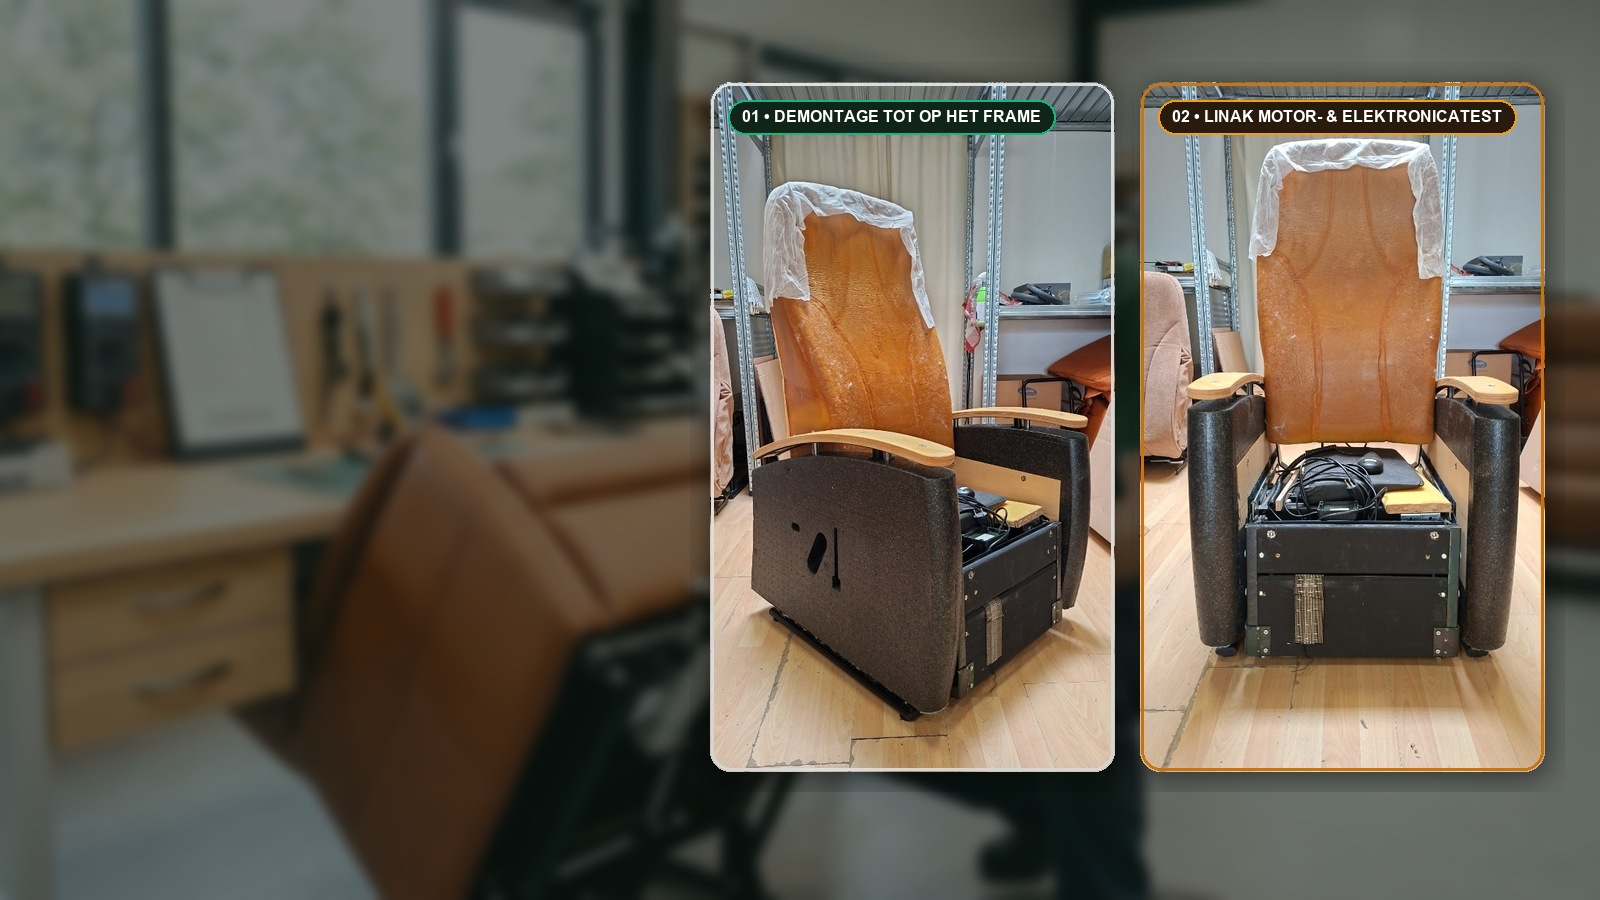
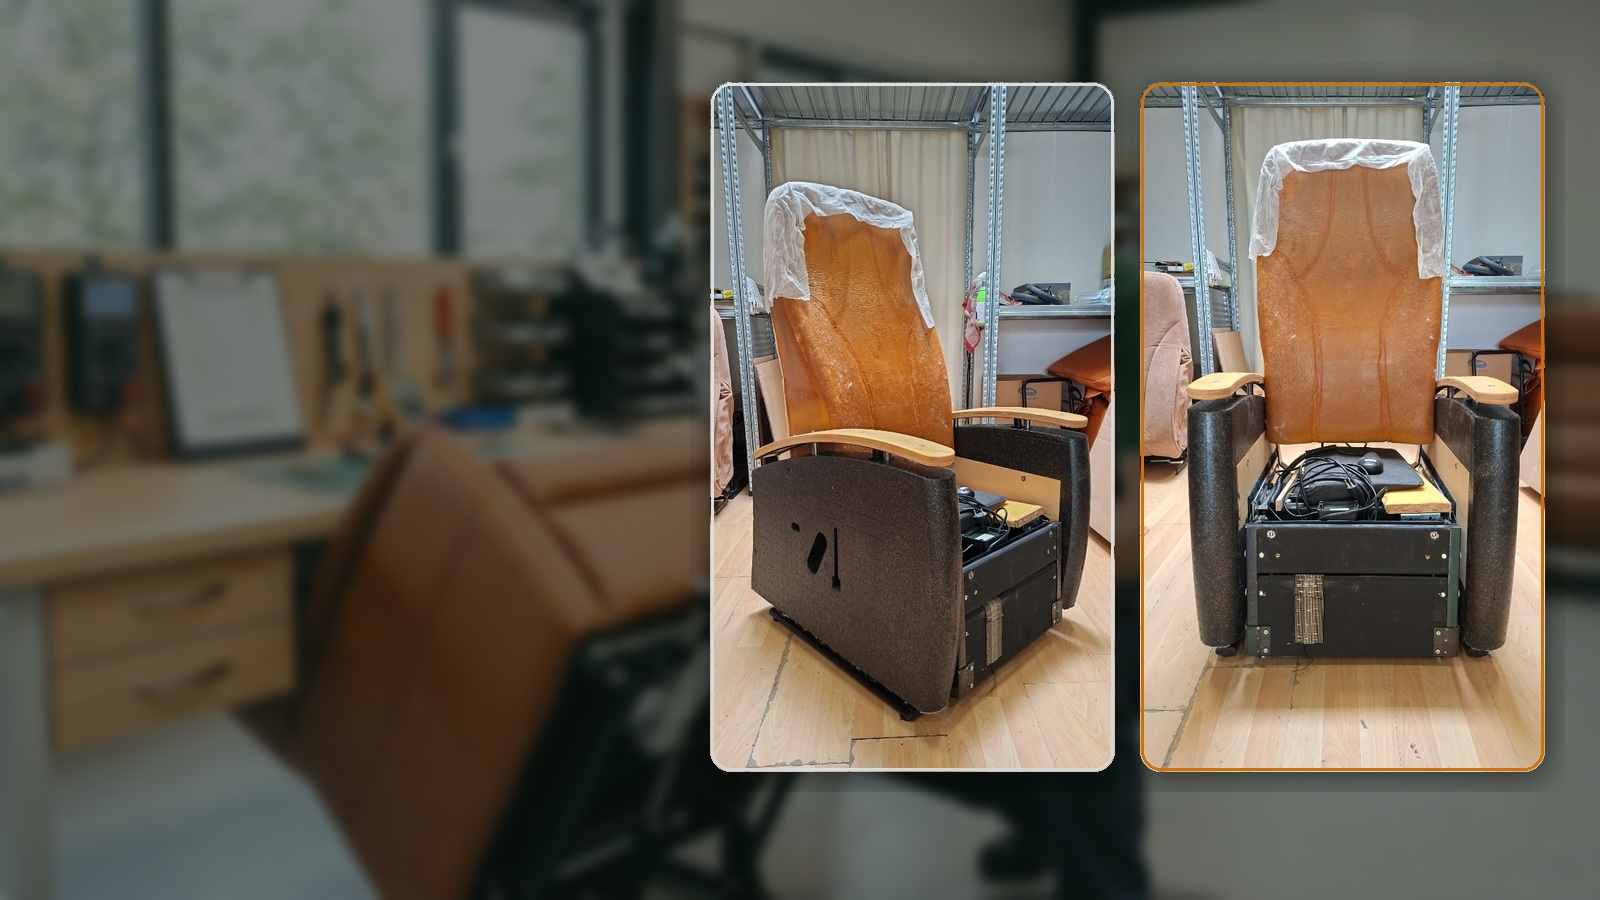
Remove text overlays from workshop photos and fix card text overflow

Changed region(s): [[0.7188, 0.0933, 0.9688, 0.1556], [0.4375, 0.0933, 0.6562, 0.1556]]

diff --git a/certified-fitform-video.html b/certified-fitform-video.html
@@ -2488,13 +2488,14 @@
     }
     .anatomy-stage-grid {
       display: grid;
-      grid-template-columns: 140px 1fr;
-      gap: 12px;
+      grid-template-columns: 125px 1fr;
+      gap: 10px;
       align-items: stretch;
       height: 215px;
       min-height: 215px;
       max-height: 215px;
       flex-shrink: 0;
+      min-width: 0;
     }
     .anatomy-chair-canvas {
       position: relative;
@@ -2601,31 +2602,38 @@
       background: #f4f9f1;
       border: 1px solid rgba(75, 143, 36, 0.22);
       border-radius: 8px;
-      padding: 6px 10px;
-      font-size: 0.72rem;
+      padding: 6px 8px;
+      font-size: 0.70rem;
       display: flex;
       flex-direction: column;
       gap: 3px;
       flex-shrink: 0;
+      box-sizing: border-box;
+      min-width: 0;
+      overflow: hidden;
     }
     .anatomy-meta-row {
       display: flex;
       justify-content: space-between;
-      align-items: center;
+      align-items: baseline;
       gap: 6px;
-      font-size: 0.71rem;
+      font-size: 0.70rem;
       line-height: 1.25;
+      min-width: 0;
     }
     .anatomy-meta-lbl {
       color: #64748b;
       font-weight: 600;
       flex-shrink: 0;
+      font-size: 0.69rem;
     }
     .anatomy-meta-val {
       font-weight: 800;
       color: var(--color-forest-dark);
       text-align: right;
-      white-space: nowrap;
+      white-space: normal;
+      word-break: normal;
+      min-width: 0;
     }
     .anatomy-pills-row {
       display: grid;
@@ -2959,12 +2967,13 @@
     }
     .revisie-stage-grid {
       display: grid;
-      grid-template-columns: 140px 1fr;
-      gap: 12px;
+      grid-template-columns: 125px 1fr;
+      gap: 10px;
       height: 215px;
       min-height: 215px;
       max-height: 215px;
       flex-shrink: 0;
+      min-width: 0;
     }
     .revisie-photo-frame {
       position: relative;
@@ -2986,22 +2995,7 @@
       transition: transform 0.35s ease;
     }
     .revisie-photo-badge {
-      position: absolute;
-      bottom: 6px;
-      left: 6px;
-      right: 6px;
-      background: rgba(15, 28, 22, 0.92);
-      color: #ffffff;
-      font-family: 'Montserrat', sans-serif;
-      font-size: 0.60rem;
-      font-weight: 800;
-      padding: 4px 6px;
-      border-radius: 6px;
-      text-align: center;
-      white-space: nowrap;
-      overflow: hidden;
-      text-overflow: ellipsis;
-      border: 1px solid rgba(243, 146, 35, 0.5);
+      display: none !important;
     }
     .revisie-detail-col {
       display: flex;
@@ -4949,13 +4943,13 @@
     {
       align: "left",
       shortTag: "1. Demontage & Framecheck",
-      kicker: "FASE 1 • DEMONTAGE TOT OP HET FRAME",
+      kicker: "FASE 1 • BASISFRAME & TECHNIEK",
       title: "Gestript tot op het Stalen Frame",
       subtitle: "",
       metric: "",
       caption: "Wij demonteren elke Fitform stoel tot op het stalen basisframe. Geen cosmetisch poetswerk, maar een grondige 30-punts inspectie van motoren, bekabeling en schaarmechaniek.",
       voiceText: "Wij demonteren elke Fitform stoel tot op het stalen basisframe. Geen cosmetisch poetswerk, maar een grondige dertig-punten inspectie van motoren, bekabeling en schaarmechaniek.",
-      bg: "assets/revisie_scene1_wide.jpg?v=20261024_1",
+      bg: "assets/revisie_scene1_wide.jpg?v=20261025_2",
       audio: "assets/audio/revisie_scene_1.m4a?v=20261025_1",
       durationSec: 10.46,
       visualHtml: `
@@ -5030,7 +5024,7 @@
       metric: "",
       caption: "Oud schuim wordt vervangen door gecertificeerd nieuw HR-koudschuim. De drie Deense Linak motoren ondergaan een zware 150 kilo belastingstest voor geruisloze kracht.",
       voiceText: "Oud schuim wordt vervangen door gecertificeerd nieuw HR-koudschuim. De drie Deense Linak motoren ondergaan een zware 150 kilo belastingstest voor geruisloze kracht.",
-      bg: "assets/revisie_scene2_wide.jpg?v=20261024_1",
+      bg: "assets/revisie_scene2_wide.jpg?v=20261025_2",
       audio: "assets/audio/revisie_scene_2.m4a?v=20261025_1",
       durationSec: 10.25,
       visualHtml: `
@@ -5042,7 +5036,6 @@
           <div class="revisie-stage-grid">
             <div class="revisie-photo-frame">
               <img src="assets/revisie_stap3.jpg" alt="Revisiestap" id="revisie-step-img">
-              <div class="revisie-photo-badge" id="revisie-step-badge">01 &bull; DEMONTAGE TOT OP HET FRAME</div>
             </div>
             <div class="revisie-detail-col">
               <div class="anatomy-detail-cat" id="revisie-detail-cat">STAP 01 &bull; CHASSIS &amp; SCHUIMKERN</div>
@@ -5299,7 +5292,7 @@
       cat: "5 • Veiligheid & Garantie",
       title: "Nieuwe Noodaccu & Keurmerk",
       desc: "Inclusief verse back-up batterij bij stroomuitval en 24 maanden garantie aan huis.",
-      check: "Accucapaciteit & Noodcircuit",
+      check: "Accu & Noodcircuit",
       action: "✓ 24 Mnd Garantie aan huis",
       part: "anat-part-base"
     }
